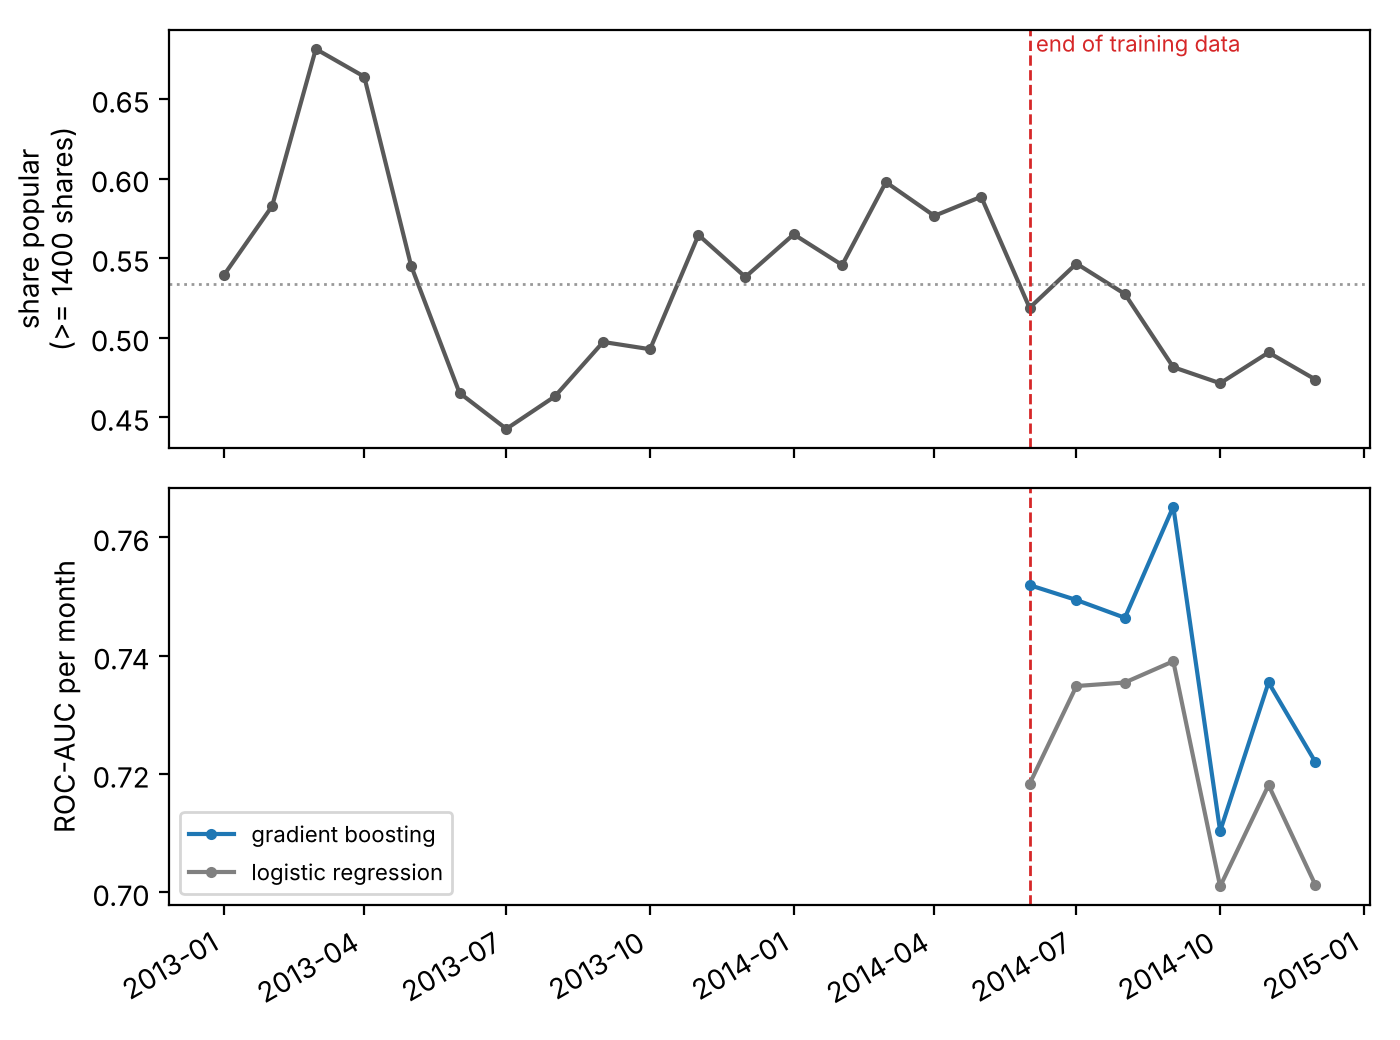
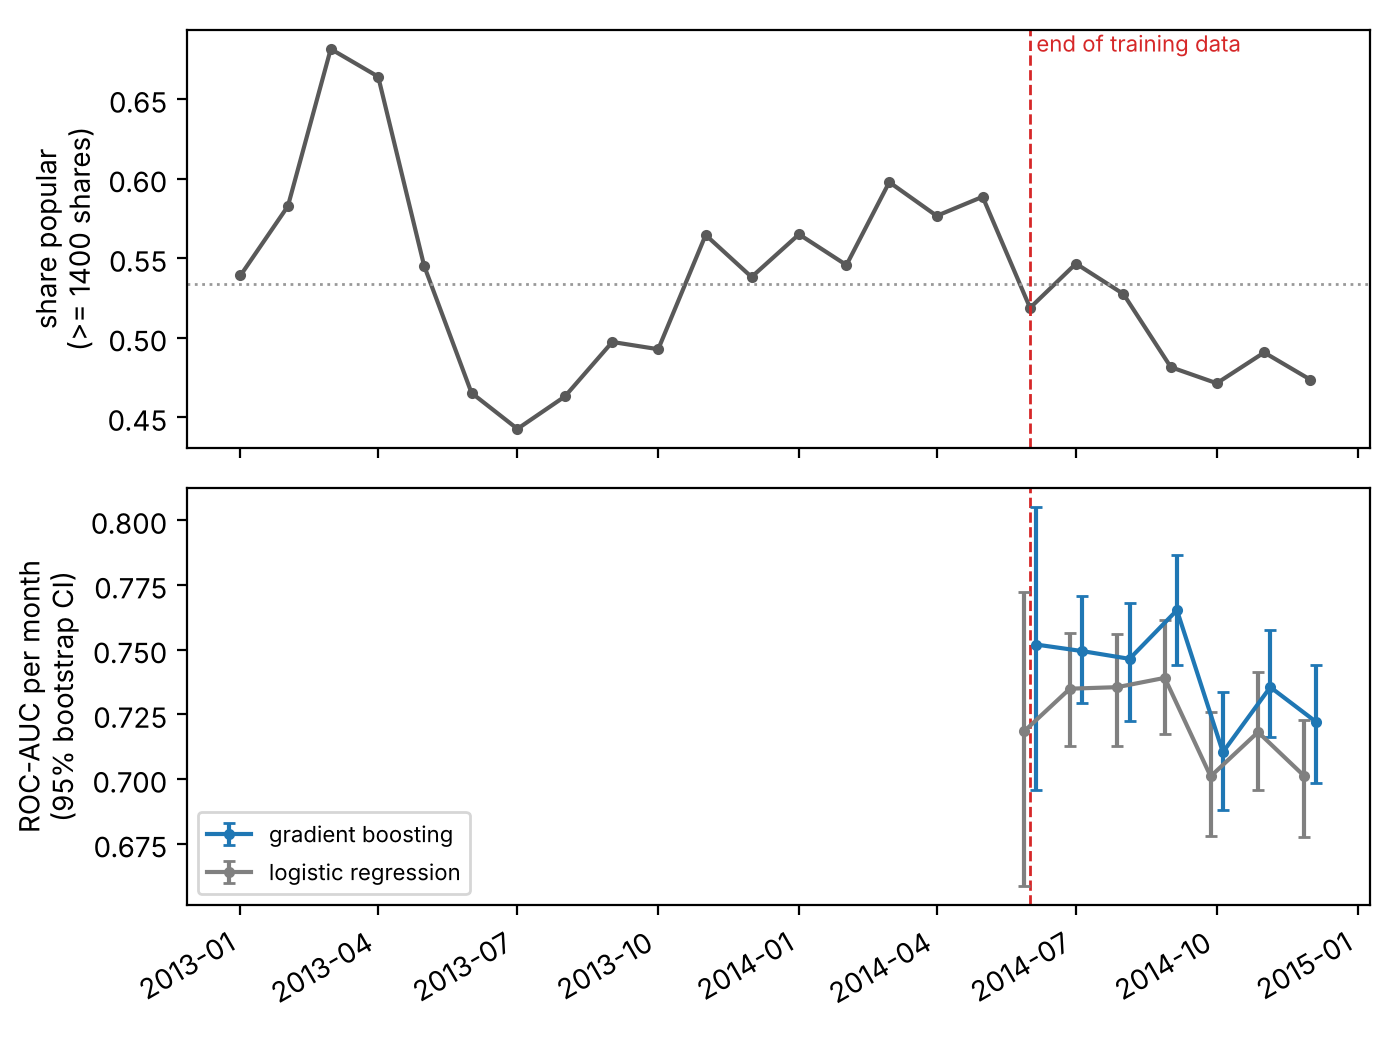
R3: E1 uncertainty, early-vs-late decay test, prior-shift correction (#10)
Monthly AUCs now carry bootstrap intervals; decay is tested as first vs
last three months after the cutoff; prior-shift correction is reported
as a negative result.

Claude-Session: https://claude.ai/code/session_01TCfNdN2Zn6ui1ME3kdmCGP

diff --git a/scripts/e1_drift.py b/scripts/e1_drift.py
@@ -16,10 +16,10 @@ matplotlib.use("Agg")
 import matplotlib.pyplot as plt
 import numpy as np
 import pandas as pd
-from sklearn.metrics import roc_auc_score
+from sklearn.metrics import accuracy_score, brier_score_loss, roc_auc_score
 
 from newspop.data import ROOT, feature_set, load, make_label
-from newspop.evaluate import classification_report
+from newspop.evaluate import bootstrap_ci, classification_report
 from newspop.models import fit, get_model
 from newspop.splits import random_split, rolling_origin, temporal_split
 
@@ -72,13 +72,60 @@ def monthly(df, X, y, n):
             sel = month[after] == mo
             if sel.sum() < 200:      # skip a partial month at the split boundary
                 continue
+            auc, lo, hi = bootstrap_ci(y[after][sel], p[sel], n_boot=500)
             rows.append({"month": mo, "model": m, "n": int(sel.sum()),
                          "pos_rate": y[after][sel].mean(),
                          "pred_pos_rate": (p[sel] >= 0.5).mean(),
-                         "roc_auc": roc_auc_score(y[after][sel], p[sel])})
+                         "roc_auc": auc, "auc_lo": lo, "auc_hi": hi})
     base = (pd.DataFrame({"month": month, "y": y}).groupby("month")["y"]
             .agg(pos_rate="mean", n="size").reset_index())
     return pd.DataFrame(rows), base, month[tr[-1]]
+
+
+def early_vs_late(df, X, y, n, months=3):
+    """AUC on the first vs the last `months` full months after the training cutoff,
+    with independent bootstrap intervals for the difference (two disjoint test sets)."""
+    tr, _, _ = temporal_split(n, 0.7, 0.1)
+    after = np.arange(len(tr), n)
+    month = df["publish_date"].dt.to_period("M").to_numpy()[after]
+    full = [mo for mo in pd.unique(month) if (month == mo).sum() >= 1000]
+    early, late = np.isin(month, full[:months]), np.isin(month, full[-months:])
+    rng = np.random.default_rng(0)
+    rows = []
+    for m in ["logreg", "hgb"]:
+        p = fit(get_model(m, 0), X[tr], y[tr]).predict_proba(X[after])[:, 1]
+        ya, pa = y[after], p
+        e_idx, l_idx = np.where(early)[0], np.where(late)[0]
+        diffs = []
+        for _ in range(1000):
+            ie = rng.choice(e_idx, len(e_idx)); il = rng.choice(l_idx, len(l_idx))
+            diffs.append(roc_auc_score(ya[ie], pa[ie]) - roc_auc_score(ya[il], pa[il]))
+        d = roc_auc_score(ya[e_idx], pa[e_idx]) - roc_auc_score(ya[l_idx], pa[l_idx])
+        lo, hi = np.quantile(diffs, [0.025, 0.975])
+        rows.append({"model": m, "early_months": ",".join(map(str, full[:months])),
+                     "late_months": ",".join(map(str, full[-months:])),
+                     "auc_early": roc_auc_score(ya[e_idx], pa[e_idx]), "auc_late": roc_auc_score(ya[l_idx], pa[l_idx]),
+                     "decay": d, "decay_lo": lo, "decay_hi": hi})
+    return pd.DataFrame(rows)
+
+
+def label_shift(X, y, n):
+    """Prior-shift correction: rescale probabilities from the training positive rate to the
+    validation block's positive rate (the most recent rate known before test time)."""
+    tr, va, te = temporal_split(n, 0.7, 0.1)
+    pi_tr, pi_va = y[tr].mean(), y[va].mean()
+    rows = []
+    for m in ["logreg", "hgb"]:
+        p = fit(get_model(m, 0), X[tr], y[tr]).predict_proba(X[te])[:, 1]
+        a = p * pi_va / pi_tr
+        b = (1 - p) * (1 - pi_va) / (1 - pi_tr)
+        q = a / (a + b)
+        for name, s in [("uncorrected", p), ("prior-shift corrected", q)]:
+            rows.append({"model": m, "variant": name, "pi_train": pi_tr, "pi_val": pi_va,
+                         "pi_test": y[te].mean(), "pred_pos_rate": (s >= 0.5).mean(),
+                         "accuracy": accuracy_score(y[te], s >= 0.5), "brier": brier_score_loss(y[te], s),
+                         "roc_auc": roc_auc_score(y[te], s)})
+    return pd.DataFrame(rows)
 
 
 def adversarial(X, n):
@@ -111,6 +158,13 @@ def main():
     mon, base, last_train_month = monthly(df, X, y, n)
     mon.to_csv(TAB / "e1_monthly_eval.csv", index=False)
 
+    ev = early_vs_late(df, X, y, n)
+    ev.to_csv(TAB / "e1_early_vs_late.csv", index=False)
+    print(ev.round(3).to_string())
+    ls = label_shift(X, y, n)
+    ls.to_csv(TAB / "e1_label_shift.csv", index=False)
+    print(ls.round(3).to_string())
+
     adv = {}
     for fs in ["all", "no_kw_ref"]:
         adv[fs] = adversarial(df[feature_set(df, fs)].to_numpy(), n)
@@ -130,9 +184,11 @@ def main():
     ax1.set_ylabel("share popular\n(>= 1400 shares)")
     for m, c in [("hgb", "C0"), ("logreg", "0.5")]:
         s = mon[mon.model == m]
-        ax2.plot(pd.PeriodIndex(s["month"], freq="M").to_timestamp(), s["roc_auc"],
-                 marker="o", ms=3, color=c, label={"hgb": "gradient boosting", "logreg": "logistic regression"}[m])
-    ax2.set_ylabel("ROC-AUC per month"); ax2.legend(fontsize=8, loc="lower left")
+        xs = pd.PeriodIndex(s["month"], freq="M").to_timestamp() + pd.Timedelta(days=4 if m == "hgb" else -4)
+        ax2.errorbar(xs, s["roc_auc"], yerr=[s["roc_auc"] - s["auc_lo"], s["auc_hi"] - s["roc_auc"]],
+                     marker="o", ms=3, capsize=2, color=c,
+                     label={"hgb": "gradient boosting", "logreg": "logistic regression"}[m])
+    ax2.set_ylabel("ROC-AUC per month\n(95% bootstrap CI)"); ax2.legend(fontsize=8, loc="lower left")
     fig.autofmt_xdate(); fig.tight_layout()
     fig.savefig(FIG / "e1_drift_monthly.png", dpi=200)
 

diff --git a/report/main.tex b/report/main.tex
@@ -68,7 +68,8 @@ HistGB 0.739 [0.728, 0.750] vs RF 0.736: no detectable difference; both beat Log
 
 \subsection{Temporal drift (RQ1)}
 \todo{E1: random vs chronological AUC equal (0.735 vs 0.737) but rolling sd 0.02 vs seed sd
-0.002; monthly positive rate 44--68\%; monthly AUC 0.75$\to$0.71--0.74; adversarial AUC 0.958.
+0.002; monthly positive rate 44--68\%; AUC decays 0.032 [0.014, 0.049] from first to last 3 months after cutoff;
+prior-shift correction gives no gain (negative result); adversarial AUC mostly the keyword clock (E3).
 E2: half-life weighting gives no gain.}
 % Fig: e1_drift_monthly.png
 

diff --git a/docs/results/e1_drift.md b/docs/results/e1_drift.md
@@ -18,7 +18,17 @@ Tables in `results/tables/e1_*.csv`, figures `results/figures/e1_*.png`.
 
 2. **Threshold-dependent metrics do degrade.** PR-AUC drops from 0.756 to 0.719 (HistGB) and F1 from 0.699 to 0.674, mostly because the share of popular articles falls from 53% (whole data) to 48% in the newest 20%. Month by month after training, the models predict 49–53% positives while the true rate is 47–49% (Sep–Dec 2014): a calibration drift, not a ranking failure.
 
-3. **Mild decay with distance from training data.** Monthly ROC-AUC of HistGB goes from 0.75–0.77 in the first four months after the training cutoff (Jun–Sep 2014) to 0.71–0.74 in Oct–Dec 2014.
+3. **Ranking quality decays with distance from the training data, by about 0.03.** Training
+   on the oldest 70%, AUC on the first three full months after the cutoff (Jul–Sep 2014) vs the
+   last three (Oct–Dec 2014): HistGB 0.754 → 0.722, decay 0.032 [0.014, 0.049]; logistic
+   regression 0.736 → 0.707, decay 0.030 [0.012, 0.048] (independent bootstrap, 95% CI). Monthly
+   AUCs with intervals are in `e1_drift_monthly.png`; single months are too noisy (±0.02–0.03) to
+   read on their own.
+
+   **Correcting for the label shift does not help.** Rescaling probabilities from the training
+   positive rate (54.8%) to the most recent known one (validation block, 54.0%) leaves HistGB
+   accuracy at 0.667 and Brier at 0.209 (logistic regression 0.658 → 0.660). The shift happens
+   *inside* the test period (47.9% positive), so no rate known at training time can anticipate it.
 
 4. **Old and new articles are easy to tell apart, largely because some keyword columns act as a
    clock.** A classifier separates the oldest 70% from the newest 30% with ROC-AUC 0.958 on all
@@ -29,7 +39,8 @@ Tables in `results/tables/e1_*.csv`, figures `results/figures/e1_*.png`.
 
 ## Figures
 
-- `e1_drift_monthly.png` — top: monthly share of popular articles (44%–68%); bottom: per-month ROC-AUC after the training cutoff.
+- `e1_drift_monthly.png` — top: monthly share of popular articles (44%–68%); bottom: per-month ROC-AUC after the training cutoff with 95% bootstrap intervals.
+- Tables: `e1_early_vs_late.csv`, `e1_label_shift.csv`, `e1_monthly_eval.csv` (with CIs).
 - `e1_split_comparison.png` — random vs chronological ROC-AUC per model.
 
 ## Caveats

diff --git a/docs/TASKS.md b/docs/TASKS.md
@@ -27,7 +27,7 @@ Review notes (2026-11-12): https://claude.ai/artifact/UnYjVnCpepjSA6yGzj5XMr —
 
 - [x] **R1 E3 rewrite (#8):** `kw_*` are point-in-time features that carry a clock, not leakage (kw_max_max = max shares of earlier articles for 99.7% of rows; kw_min_min = -1 in 8.5% of 2013 vs 99.9% of 2014). New point-in-time check script + staircase figure (kw_max_max vs running max over time). Drop pure clock columns (kw_max_max, kw_min_min, kw_min_min_missing; if needed kw_max_min, kw_min_max) and redo adversarial validation and predictive AUC. Rename RQ2 accordingly. Limitation: earlier articles' shares measured at collection time (Jan 2015).
 - [x] **R2 Main results table (#9):** tune HistGB, RF, LogReg, kNN on the validation block; touch test once; bootstrap 95% CIs for everything. Add bootstrap + paired-comparison helpers to `newspop/evaluate.py`. Reviewer's HistGB test AUC 0.733 [0.720, 0.743] → 0.01-level differences are "no detectable difference".
-- [ ] **R3 E1:** error bars on monthly AUC (else no "decay" claim); rewrite "strong covariate shift" per the clock finding; add label-shift correction (shift probabilities to validation positive rate) as a one-line negative result (accuracy 0.667→0.661, Brier worse).
+- [x] **R3 E1 (#10):** error bars on monthly AUC (else no "decay" claim); rewrite "strong covariate shift" per the clock finding; add label-shift correction (shift probabilities to validation positive rate) as a one-line negative result (accuracy 0.667→0.661, Brier worse).
 - [ ] **R4 E3 ablation:** report paired differences across rolling folds with intervals, not two means with separate sds.
 - [ ] **R5 E4:** decision threshold currently set with `np.quantile` on test scores (transductive peeking) → set it on the validation block. Paired bootstrap CI for regressor vs classifier at the 95th percentile (~300 positives).
 - [ ] **R6 E7:** negative-sentiment effect is confounded by channel → CMH test or logistic regression with channel. Isolation Forest: profile the outliers; contamination 1% and 5% too.
